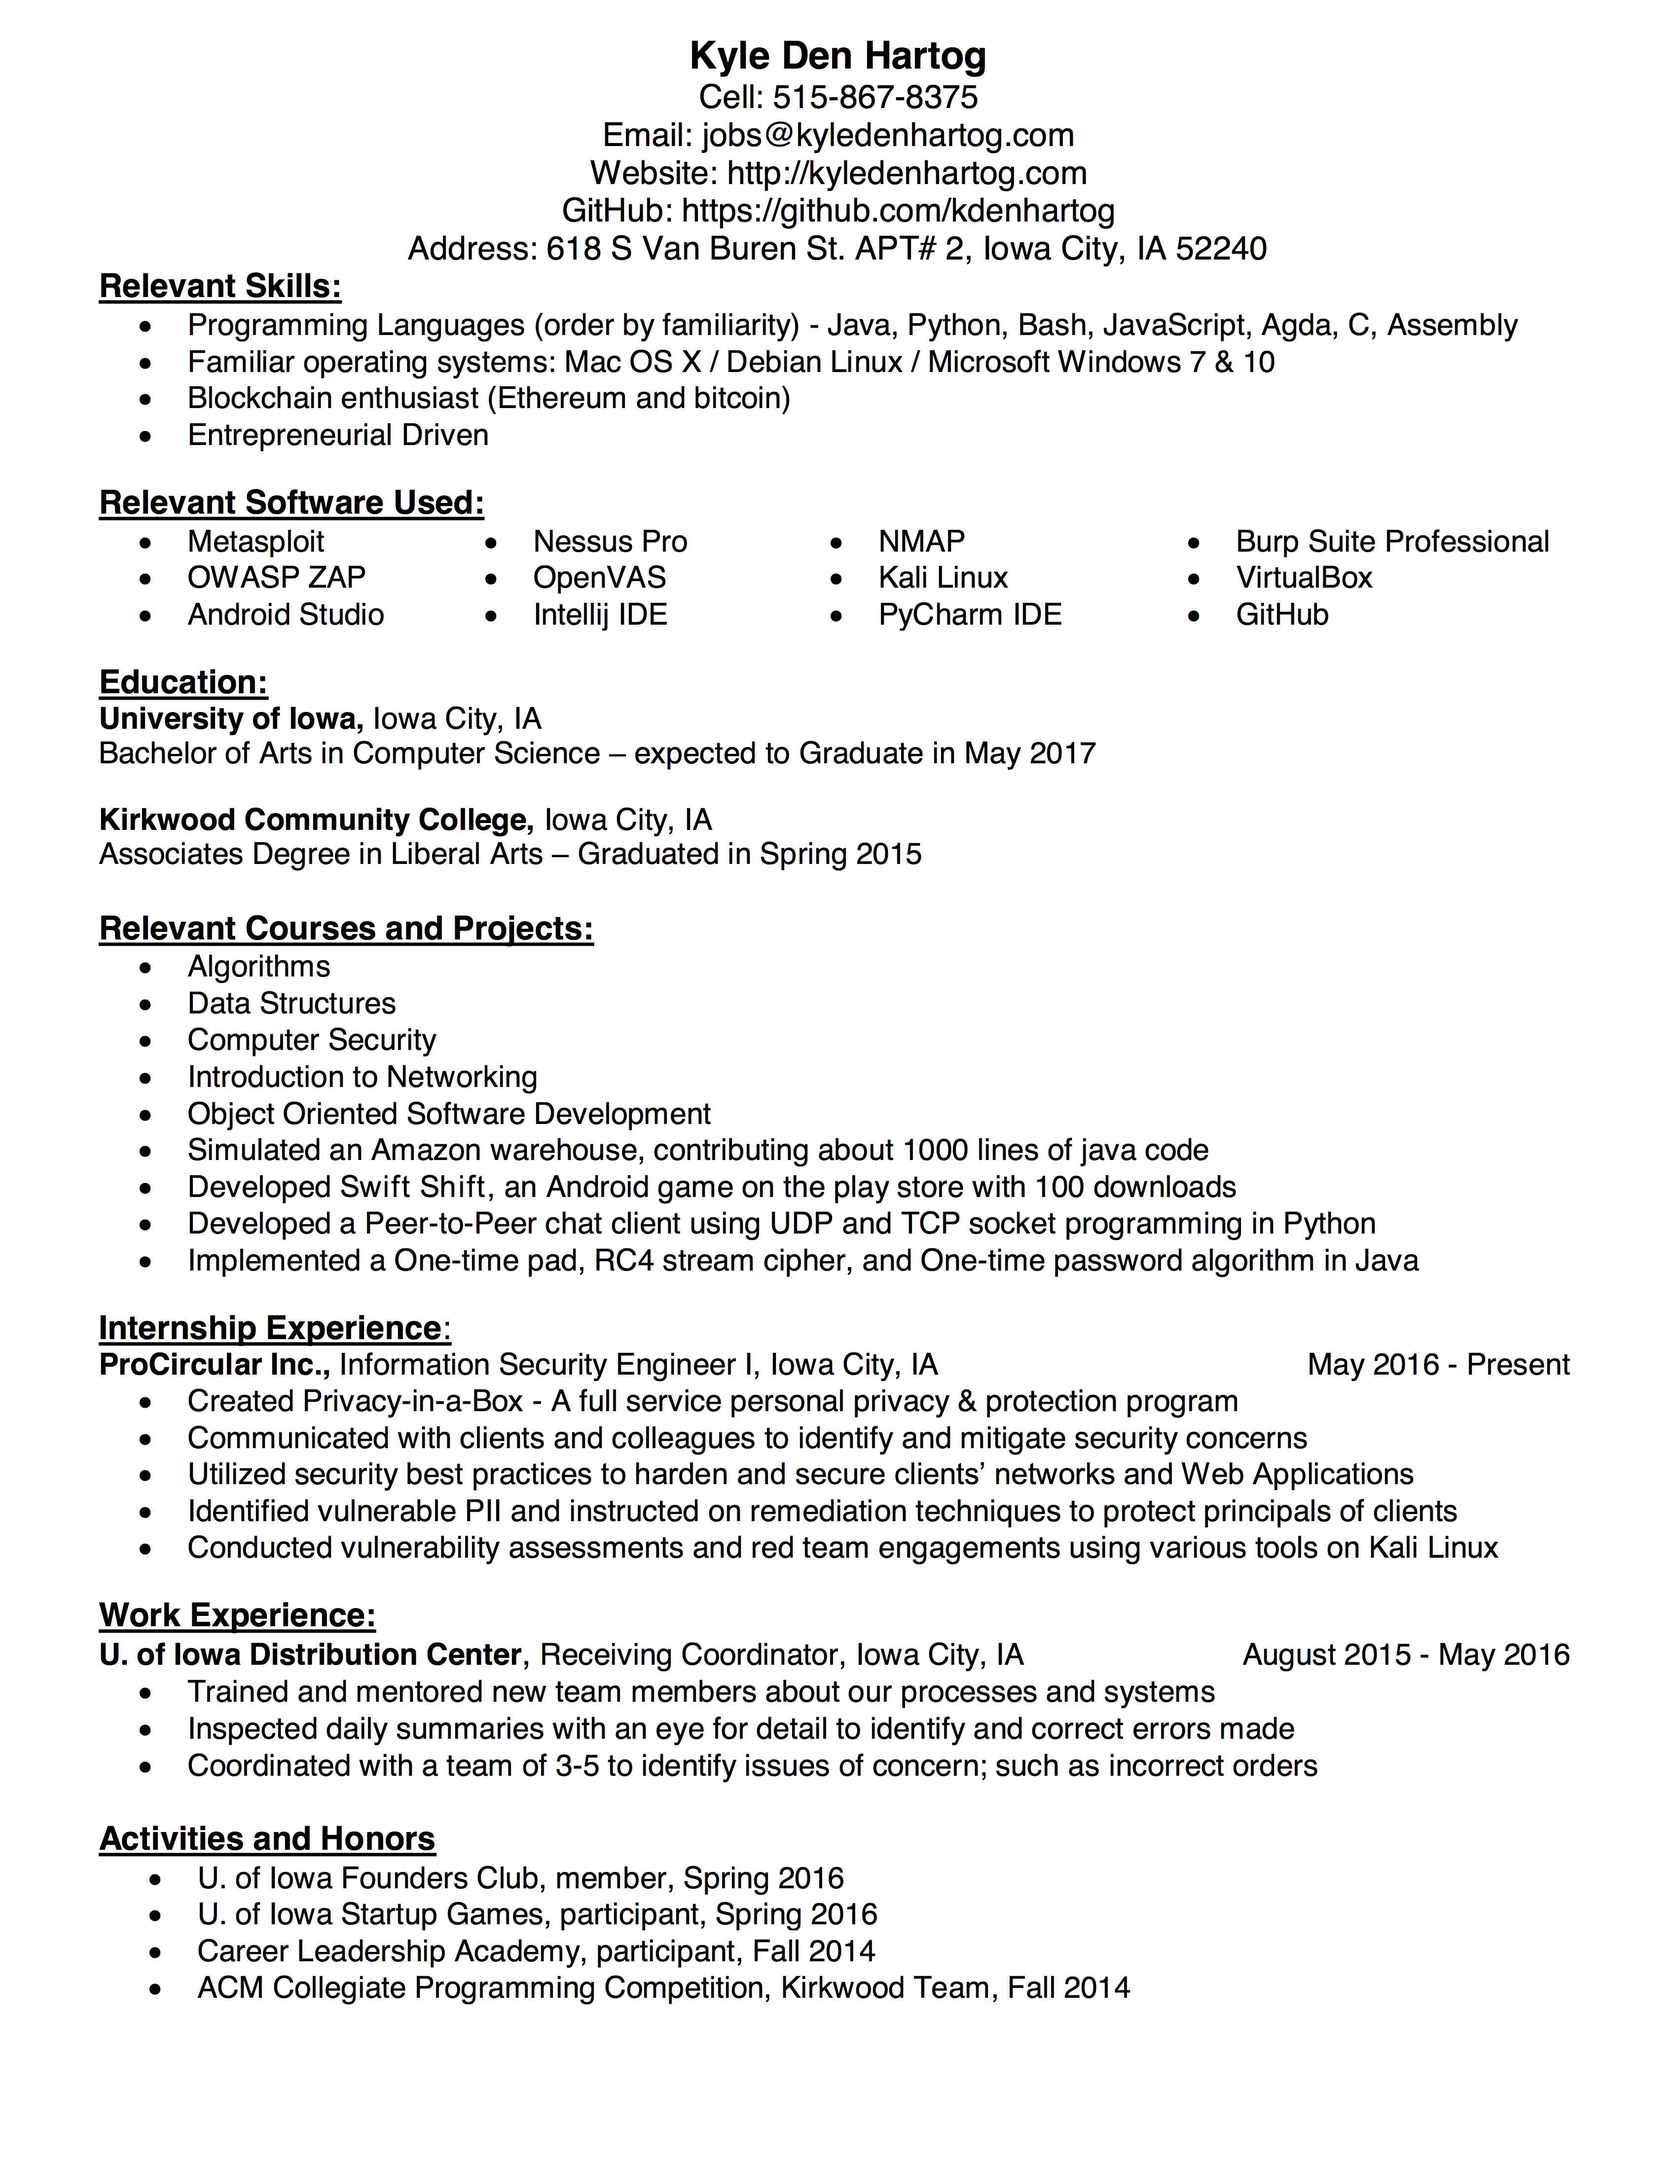
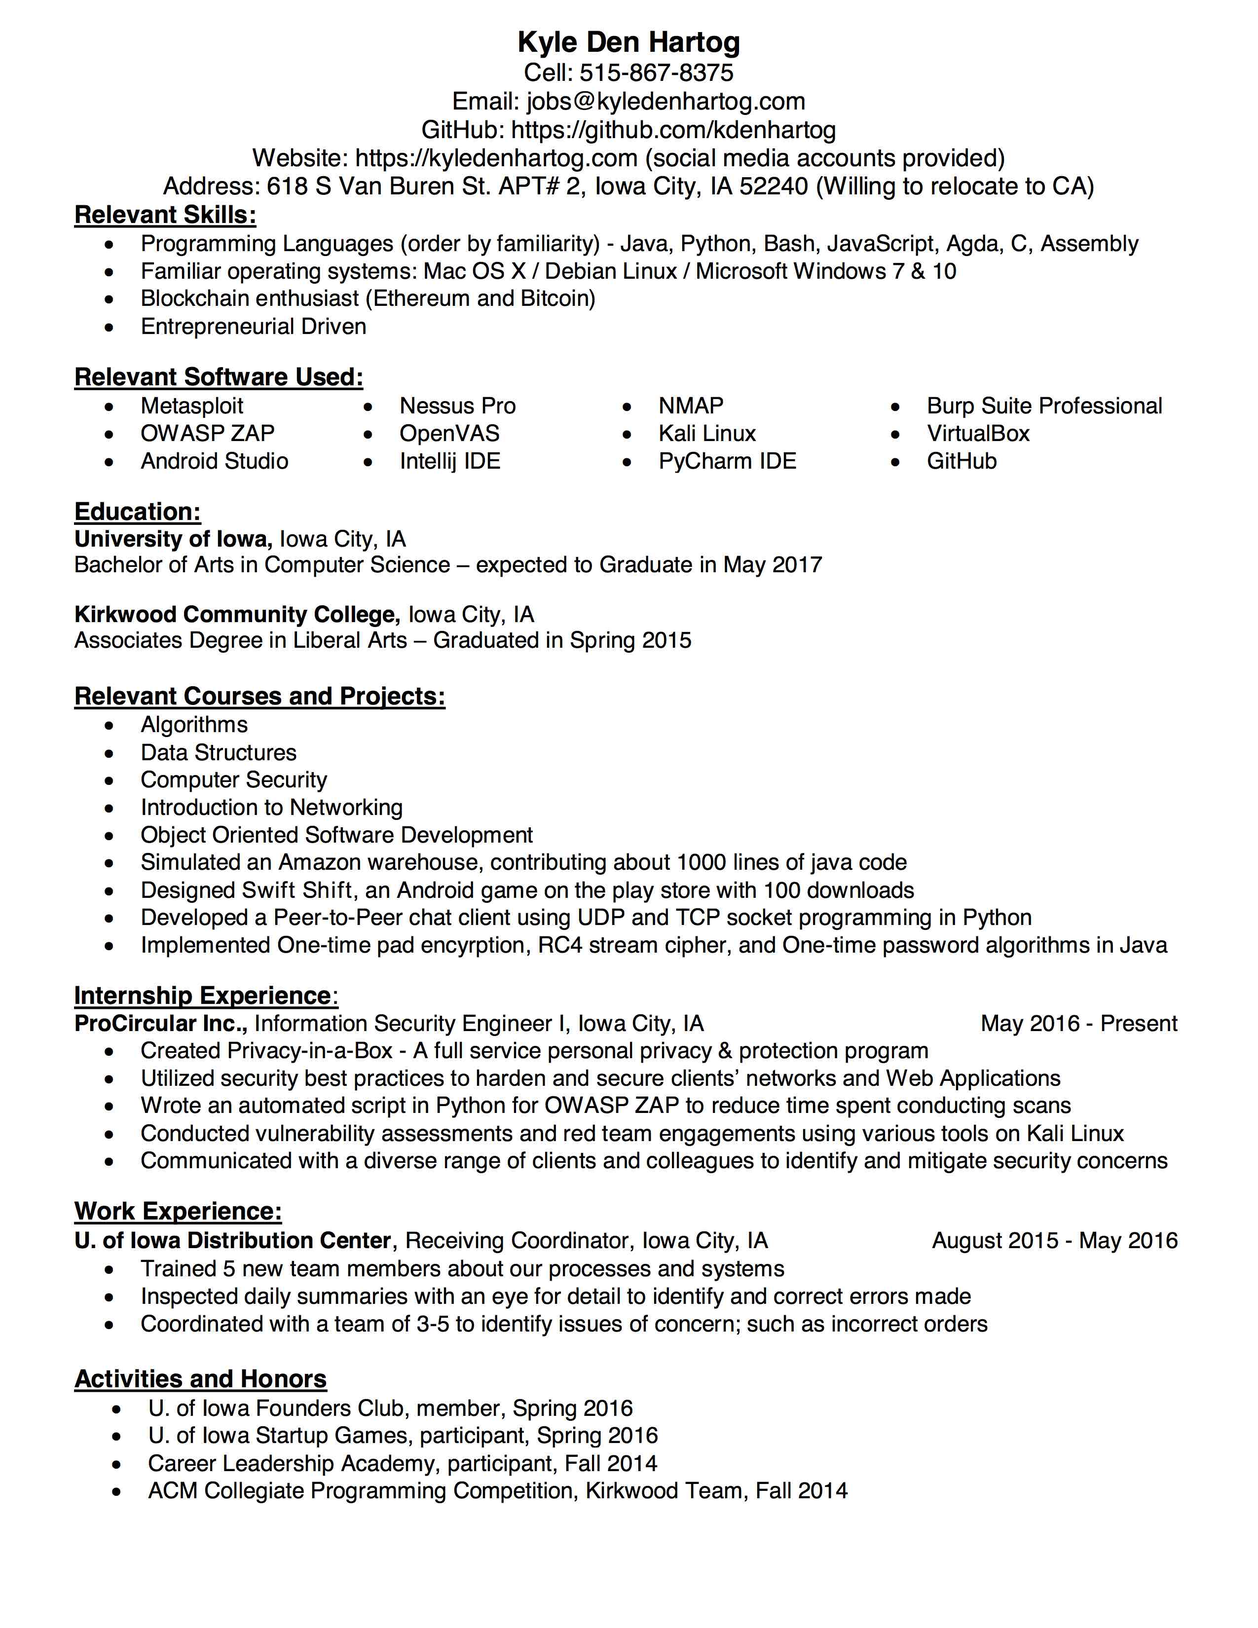
content updated, social media accounts added

diff --git a/_layouts/resume.html b/_layouts/resume.html
@@ -26,7 +26,6 @@ layout: compress
               </center>
             </div>
         </div>
-        {% if page.comments and site.disqus_shortname %}<section id="disqus_thread" class="animated fadeInUp"></section><!-- /#disqus_thread -->{% endif %}
     </header>
 </body>
 </html>

diff --git a/_posts/2016-12-23-personal-privacy-in-the-wake-of-reoccurring-data-breaches.md b/_posts/2016-12-23-personal-privacy-in-the-wake-of-reoccurring-data-breaches.md
@@ -1,0 +1,31 @@
+---
+layout: thought
+title: "Personal Privacy in the Wake of Reoccurring Data Breaches"
+date: 2016-12-23
+excerpt: "It seems like every other week there is a new data breach in the news."
+tags: [Personal Data, Privacy, Guide]
+comments: true
+---
+It seems like every other week there is a new data breach in the news. Some notable incursions of 2016 were LinkedIn, Yahoo, and a new one as of December 5th of 2016, DailyMotion (a video hosting service).
+
+These were all huge attacks with considerable compromises; Yahoo topping the charts with nearly 1 billion accounts leaked. In the face of such invasive assaults, we’re left asking, why do these breaches occur? And what can we do to protect our privacy and our organizations from future attacks?
+
+There are many reasons why adversaries attack websites, but primarily cybercriminals are looking to make money. Often, these mischievous villains are looking to gather large lists of email addresses to target with phishing links. With 80 million accounts, they know they are bound to get thousands—possibly millions—of people to click a link and fall into their trap. Once a person has entered their username and password on a fake website, the thieves attempt to use these credentials to log in to email and financial accounts, preying on the knowledge of people’s tendency to reuse credentials over multiple sites.
+
+Once a hacker gains access to emails and passwords through a data breach, they often skip the phishing phase and create a software program that attempts to use every stolen login credential on a few key websites such as PayPal, bank homepages, and email login pages. Hackers understand that it is much easier to target many people at once than to focus on one person at a time. With access to an email account, a criminal can reset passwords and gain access into financial accounts as well. Therefore, you should protect your e-mail password like you would a bank account password.
+
+**How can you protect yourself from potential attacks?**
+
+Answer: Do NOT reuse passwords on multiple sites. Even similar passwords are useful to an attacker when a computer has been setup to automatically test them.
+
+**How am I supposed to remember that many passwords?**
+
+Answer: Use a password manager such as LastPass to synchronize passwords on every device you use. For help setting up LastPass, check out their support center here: https://lastpass.com/support.php.
+
+**LastPass, however, isn’t a “set it and forget it” solution. With any security practice we want to make sure we maintain it. Which leads us to our next piece of advice:**
+
+Change passwords every 6 – 12 months and use LastPass’s “Generate Password” feature to help simplify. We recommend using a minimum 12-character password for adequate security.
+
+**How can I know if my information has been included in a new breach?**
+
+Answer: [HaveIBeenPwned](https://HaveIBeenPwned.com) is an excellent source of information on data breaches. Look for the “notify” tab at the top of their web page to sign up for notifications about when your accounts have been included in a breach.
